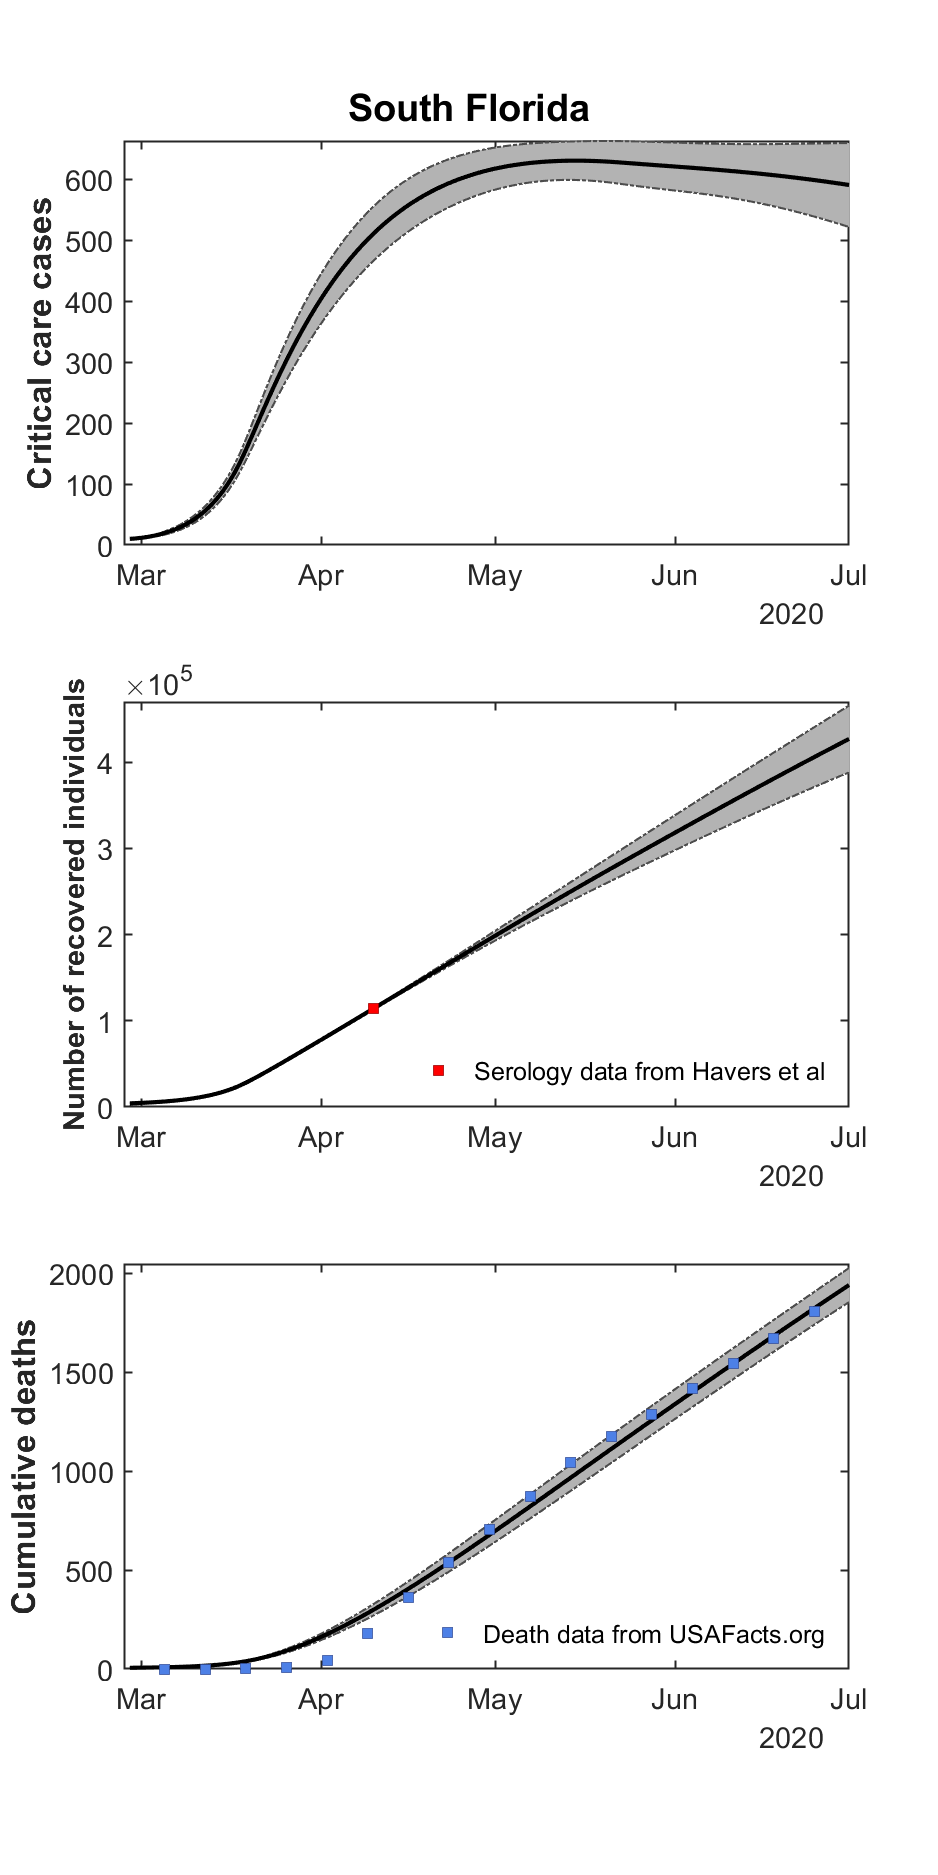
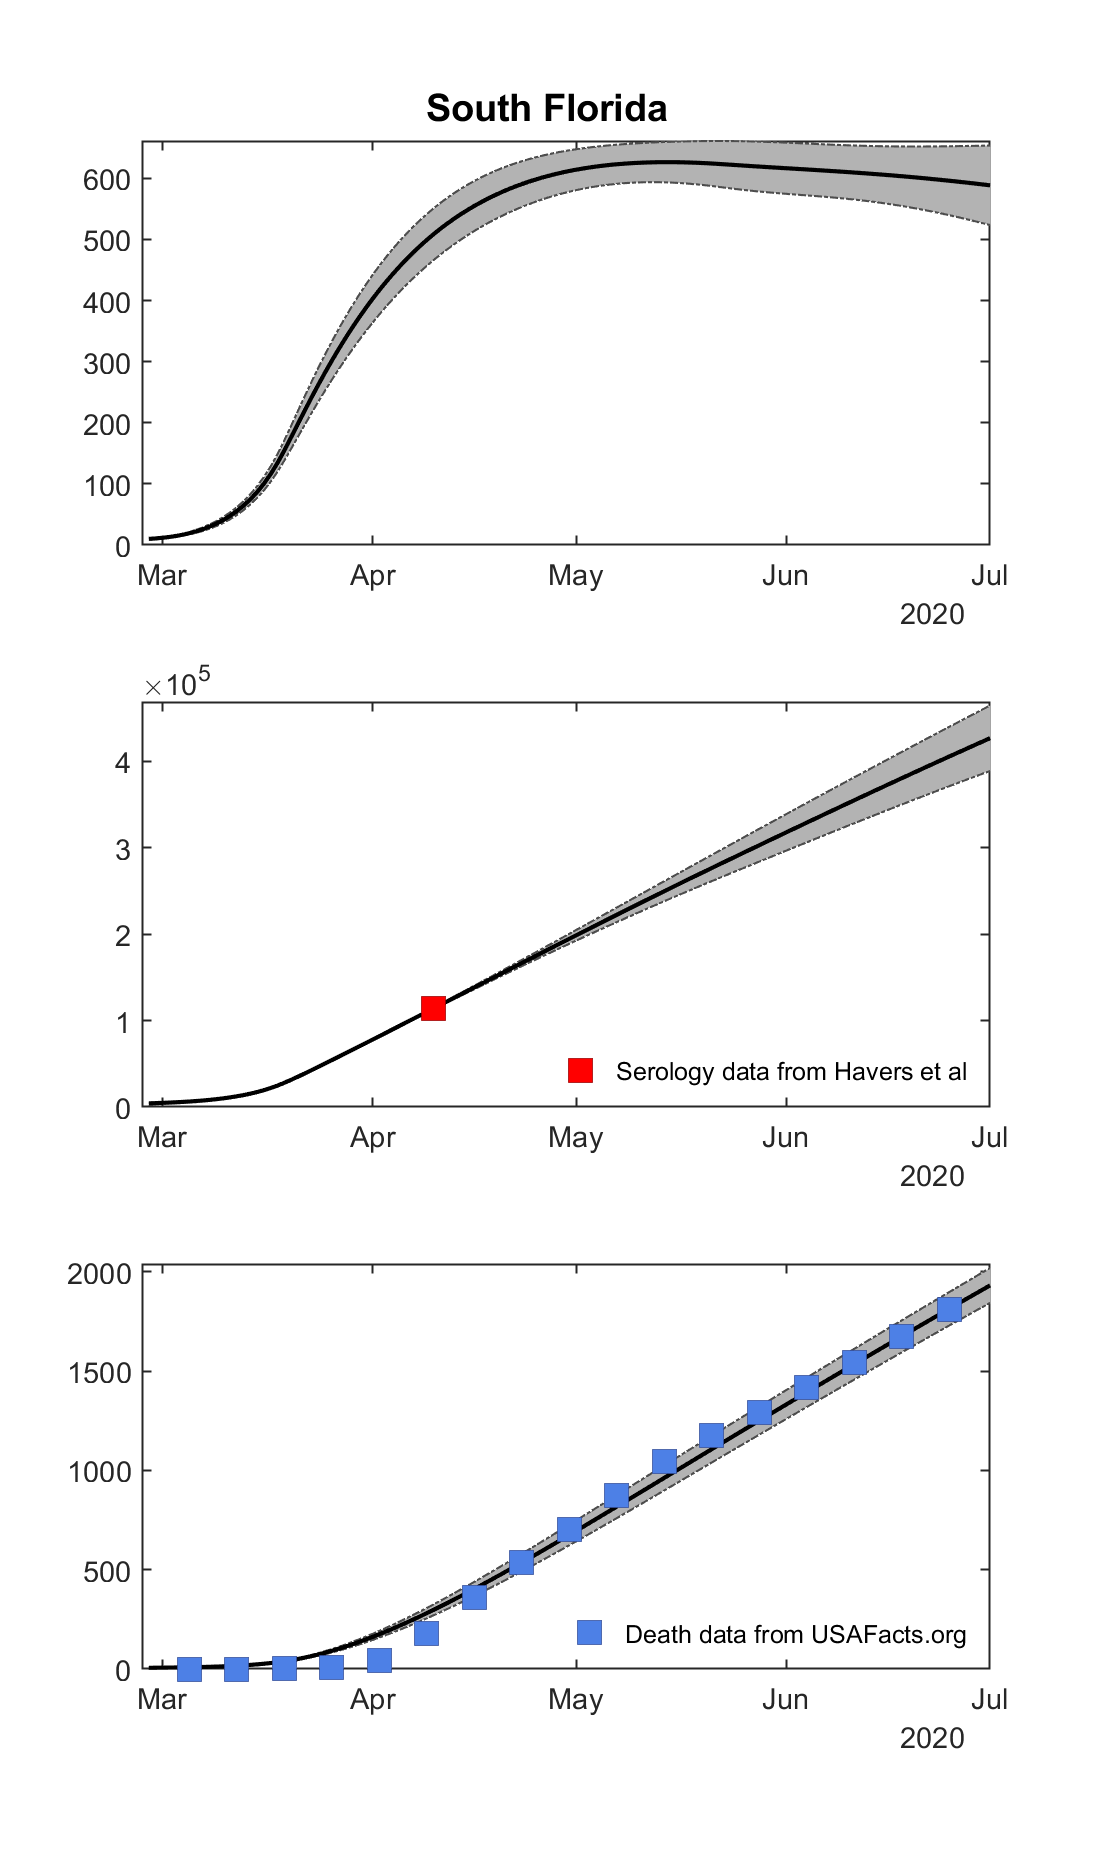
Aesthetics

diff --git a/CYZ_reorg/Matlab/plot_MCMC_res_temp_simplified.m b/CYZ_reorg/Matlab/plot_MCMC_res_temp_simplified.m
@@ -26,7 +26,7 @@ chain_samp = chain_out(i_samp,:);
 % Change plot position
 x0 = 10;
 y0 = 10;
-width = 600;
+width = 700;
 height = 1200;
 
 % Plot by component.
@@ -93,14 +93,14 @@ for j = 1:length(Comps)
         ylabel('Critical care cases','fontweight','bold', 'fontsize', 16)
         
     elseif j_comp == "R"        % If we're plotting R, include sero
-        plot(Pars.tSero+Pars.t0, Pars.sero/100*Pars.N, 's', 'Color', [.6 0 0], ...
+        plot(Pars.tSero+Pars.t0, Pars.sero/100*Pars.N, 's', 'Color', [.6 0 0], 'MarkerSize', 15, ...
             'MarkerFaceColor',[1 0 0], 'DisplayName', 'Serology data from Havers et al')
         ylabel('Number of recovered individuals','fontweight','bold',  'fontsize', 14)
         legend({'Serology data from Havers et al'},'Location','southeast', 'fontsize', 12)
         legend boxoff
 
     elseif j_comp == "D"        % If deaths, include data
-        plot(7*(1:Pars.nWeeks)+Pars.t0, cumsum(Pars.target), 's', 'Color', [0.2, 0.3, 0.6], ...
+        plot(7*(1:Pars.nWeeks)+Pars.t0, cumsum(Pars.target), 's', 'Color', [0.2, 0.3, 0.6], 'MarkerSize', 15, ...
             'MarkerFaceColor', [0.3, 0.5, 0.9], 'DisplayName', 'Death data from USAFacts.org')
         ylabel('Cumulative deaths','fontweight','bold',  'fontsize', 16)
         legend({'Death data from USAFacts.org'},'Location','southeast',  'fontsize', 12)
